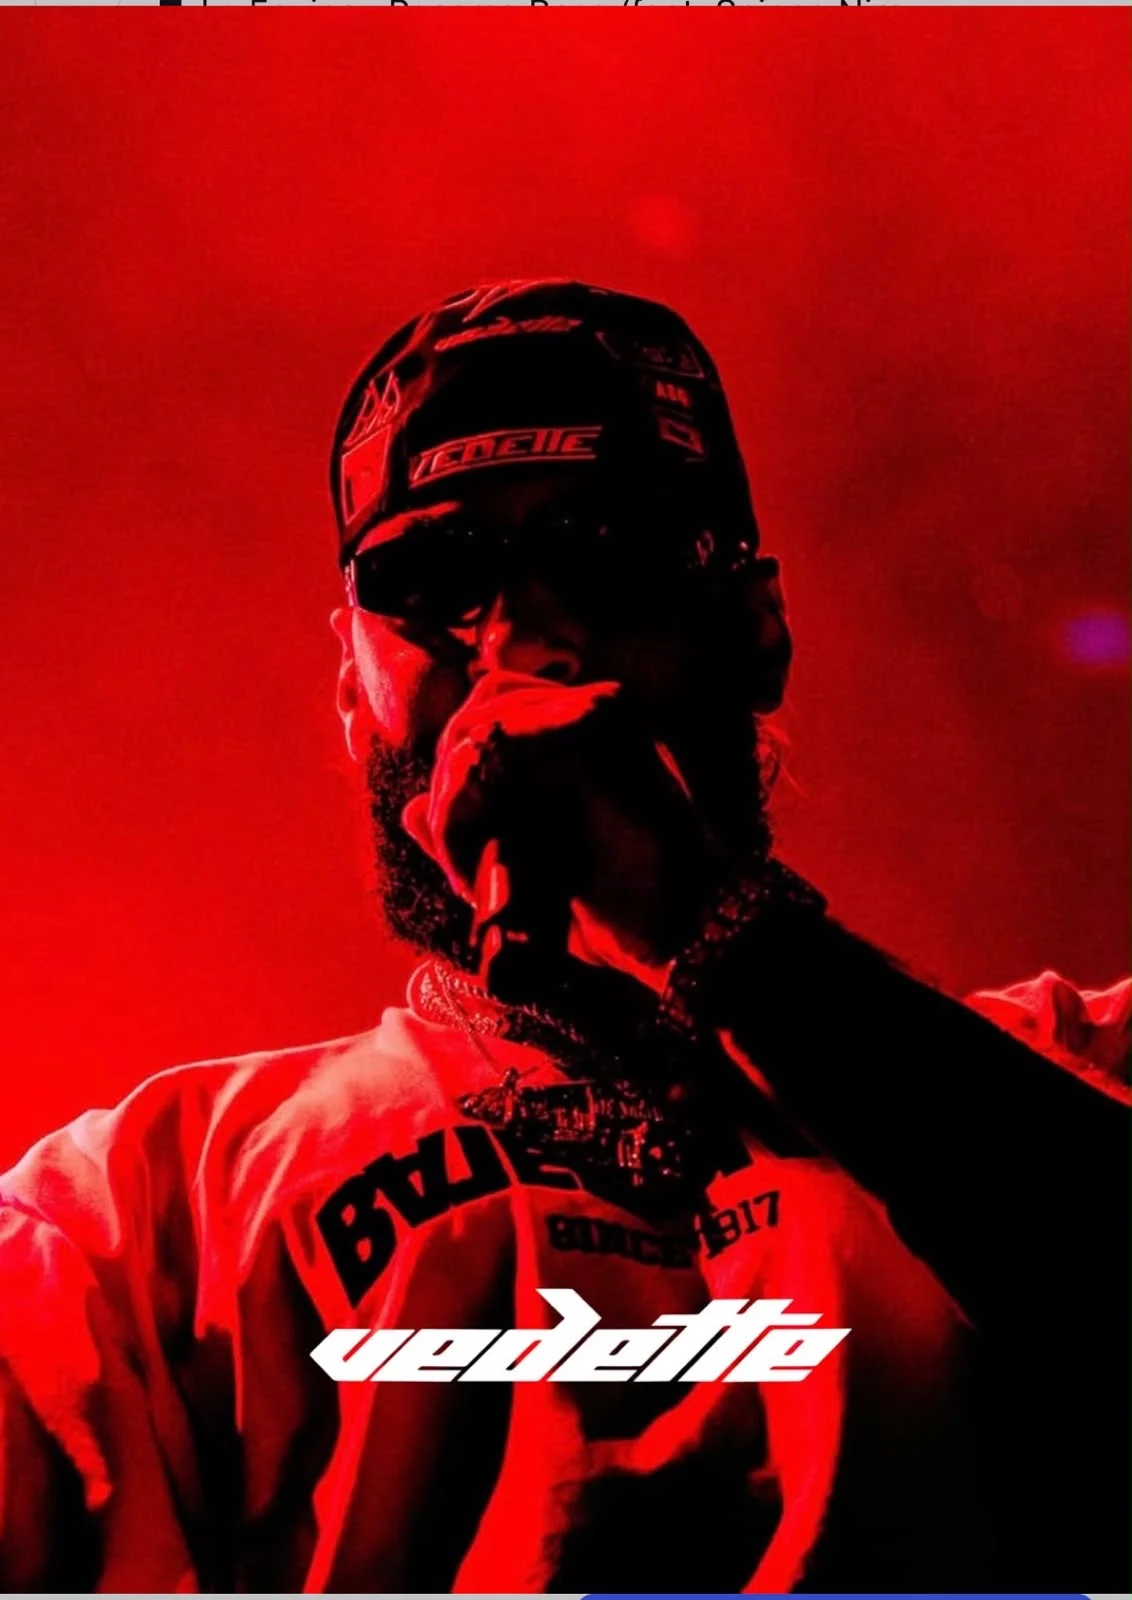
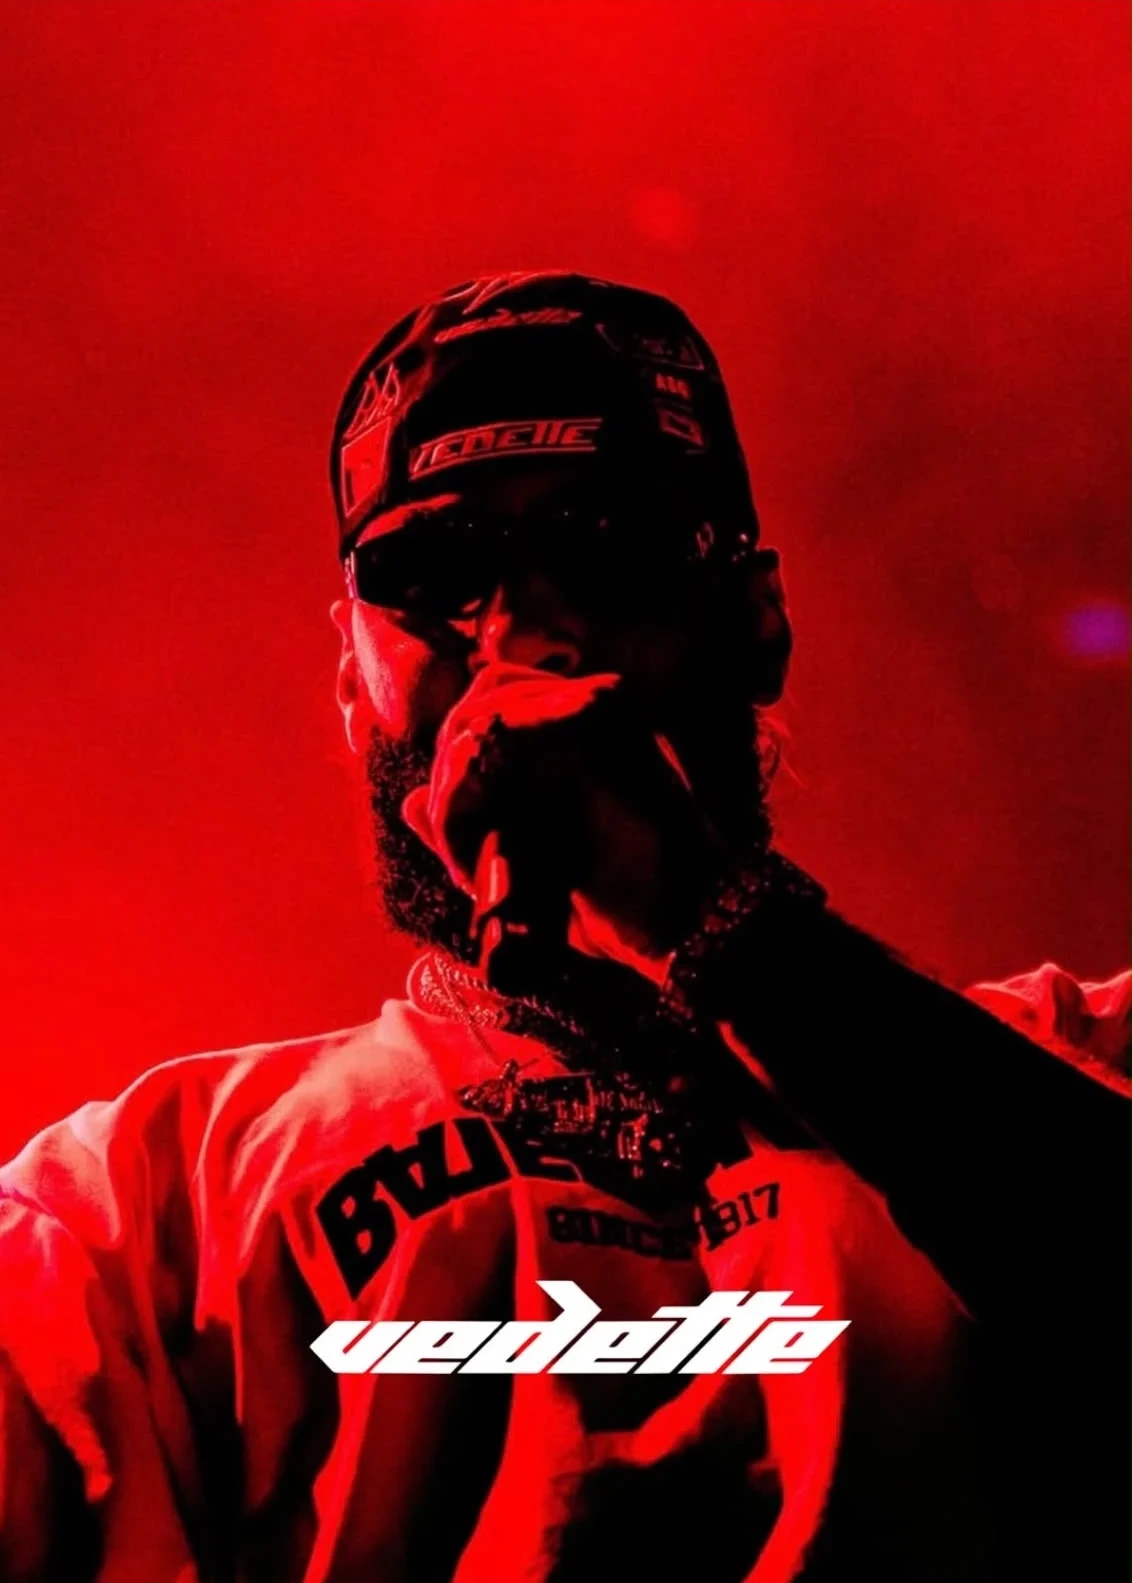
Photos de droite : rognage des bords blancs (artiste rouge, peintre)
Claude-Session: https://claude.ai/code/session_01JHKczBwFKYFofkfxCnLE6j

diff --git a/src/data/collection.ts b/src/data/collection.ts
@@ -119,8 +119,8 @@ export interface WallPoster {
 }
 /** Framed photos on the wall: tap one to bring it forward, like a piece. */
 export const wallPosters: WallPoster[] = [
-  { id: "peintre", name: "Peinture live — atelier Vedette", src: "/collection/posters/peintre.webp", w: 979, h: 1600, spot: { x: 94.29, y: 16.91, w: 9.08, h: 21.26 } },
-  { id: "artiste-rouge", name: "Sur scène — Vedette", src: "/collection/posters/artiste-rouge.webp", w: 1132, h: 1600, spot: { x: 94.39, y: 37.11, w: 9.28, h: 18.21 } },
+  { id: "peintre", name: "Peinture live — atelier Vedette", src: "/collection/posters/peintre.webp?v=2", w: 979, h: 1597, spot: { x: 94.29, y: 16.91, w: 9.08, h: 21.26 } },
+  { id: "artiste-rouge", name: "Sur scène — Vedette", src: "/collection/posters/artiste-rouge.webp?v=2", w: 1132, h: 1583, spot: { x: 94.39, y: 37.11, w: 9.28, h: 18.21 } },
   { id: "cabine-photo", name: "Photomaton — casquettes Vedette", src: "/collection/posters/cabine-photo.webp", w: 1163, h: 1479, spot: { x: 94.22, y: 57.39, w: 9.63, h: 21.44 } },
 ];
 export const WALL_IMAGE = "/collection/wall.webp?v=6";
